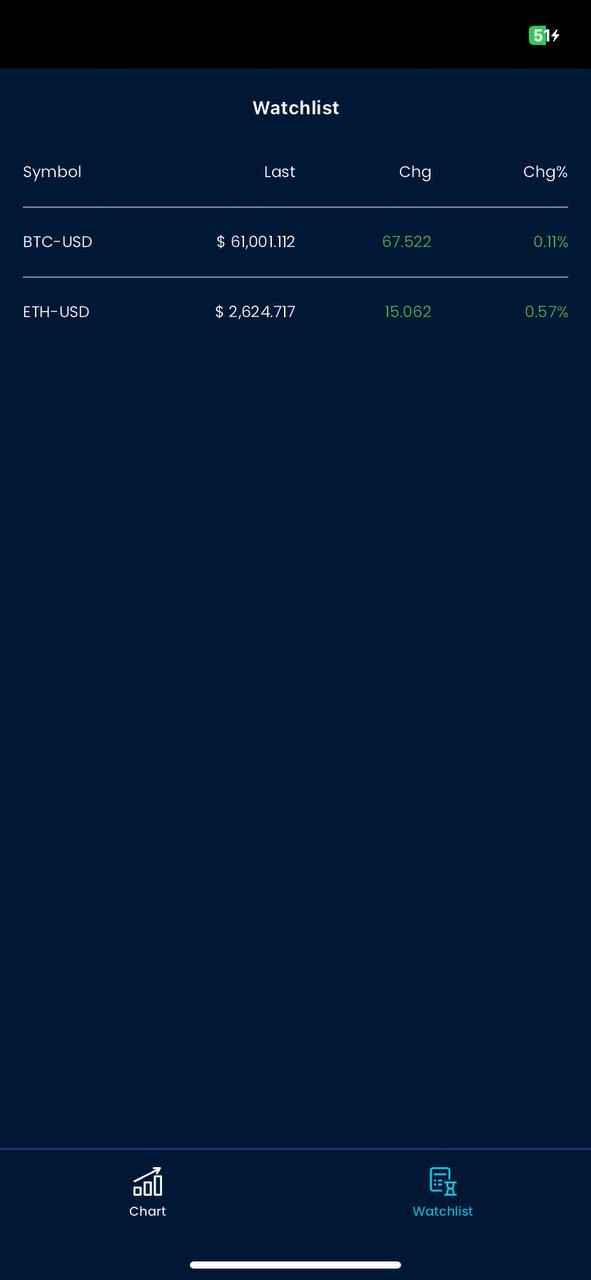
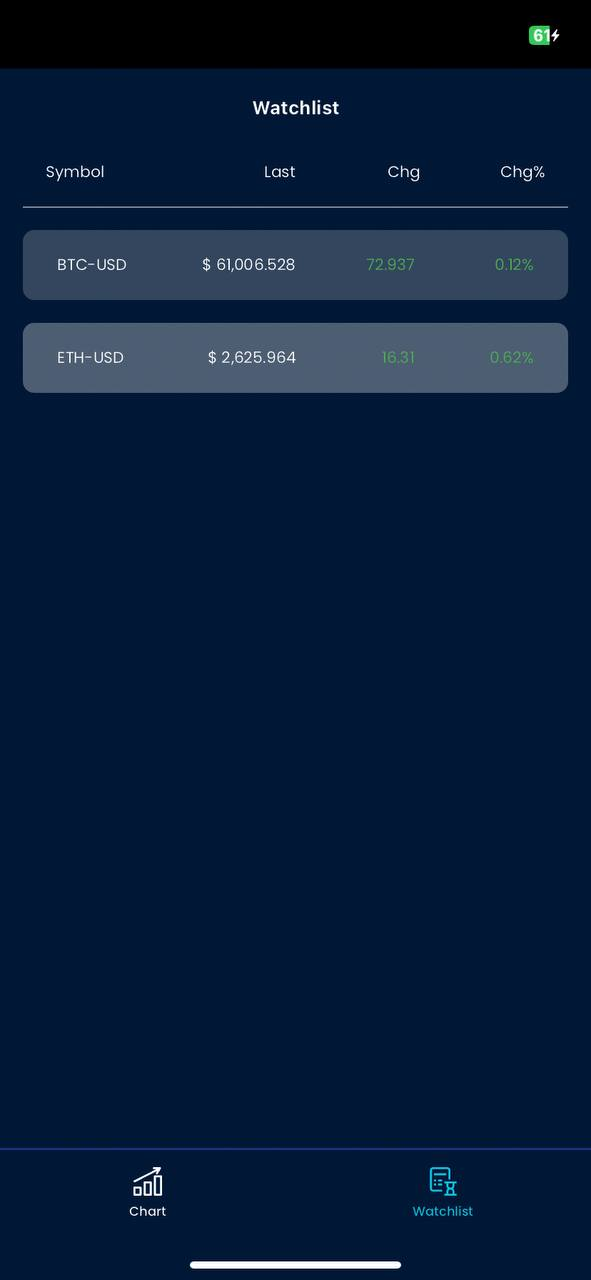
update screenshots

Changed region(s): [[0.0305, 0.125, 0.9746, 0.3125], [0.9137, 0.0, 0.9442, 0.0312]]

diff --git a/lib/app/modules/list_market/views/list_market_view.dart b/lib/app/modules/list_market/views/list_market_view.dart
@@ -27,39 +27,47 @@ class ListMarketView extends GetView<ListMarketController> {
                 Expanded(child: Text("Chg", textAlign: TextAlign.end)),
                 Expanded(child: Text("Chg%", textAlign: TextAlign.end)),
               ],
-            ).paddingSymmetric(vertical: 8, horizontal: 16),
+            ).paddingSymmetric(vertical: 8, horizontal: 32),
             const Divider(color: Colors.white).marginSymmetric(horizontal: 16),
             ListView.separated(
               shrinkWrap: true,
               itemCount: controller.listData.length,
               itemBuilder: (context, index) {
                 ResponseWebsocket item = controller.listData[index];
-                return Row(
-                  mainAxisAlignment: MainAxisAlignment.spaceEvenly,
-                  children: [
-                    Expanded(child: Text(item.s ?? "")),
-                    Expanded(
-                        child: Text('\$ ${MyHelpers.convertFormatNumber(double.parse((item.p ?? '0').toString()))}',
-                            textAlign: TextAlign.end)),
-                    Expanded(
-                      child: Text(
-                        '${MyHelpers.convertFormatNumber(double.parse(item.dd ?? "0"))}',
-                        textAlign: TextAlign.end,
-                        style: TextStyle(color: item.dd!.startsWith("-") ? Colors.red : Colors.green),
+                return Container(
+                  padding: const EdgeInsets.all(8),
+                  margin: const EdgeInsets.symmetric(vertical: 8, horizontal: 16),
+                  decoration: BoxDecoration(
+                    color: index % 2 == 0 ? Colors.white.withOpacity(0.2) : Colors.white.withOpacity(0.3),
+                    borderRadius: BorderRadius.circular(8),
+                  ),
+                  child: Row(
+                    mainAxisAlignment: MainAxisAlignment.spaceEvenly,
+                    children: [
+                      Expanded(child: Text(item.s ?? "")),
+                      Expanded(
+                          child: Text('\$ ${MyHelpers.convertFormatNumber(double.parse((item.p ?? '0').toString()))}',
+                              textAlign: TextAlign.end)),
+                      Expanded(
+                        child: Text(
+                          '${MyHelpers.convertFormatNumber(double.parse(item.dd ?? "0"))}',
+                          textAlign: TextAlign.end,
+                          style: TextStyle(color: item.dd!.startsWith("-") ? Colors.red : Colors.green),
+                        ),
                       ),
-                    ),
-                    Expanded(
-                      child: Text(
-                        '${double.parse(item.dc?? "0").toStringAsFixed(2)}%',
-                        textAlign: TextAlign.end,
-                        style: TextStyle(color: item.dc!.startsWith("-") ? Colors.red : Colors.green),
+                      Expanded(
+                        child: Text(
+                          '${double.parse(item.dc?? "0").toStringAsFixed(2)}%',
+                          textAlign: TextAlign.end,
+                          style: TextStyle(color: item.dc!.startsWith("-") ? Colors.red : Colors.green),
+                        ),
                       ),
-                    ),
-                  ],
-                ).paddingSymmetric(vertical: 8, horizontal: 16);
+                    ],
+                  ).paddingSymmetric(vertical: 8, horizontal: 16),
+                );
               },
               separatorBuilder: (context, index) {
-                return const Divider(color: Colors.white).marginSymmetric(horizontal: 16);
+                return const SizedBox();
               },
             ),
           ],
